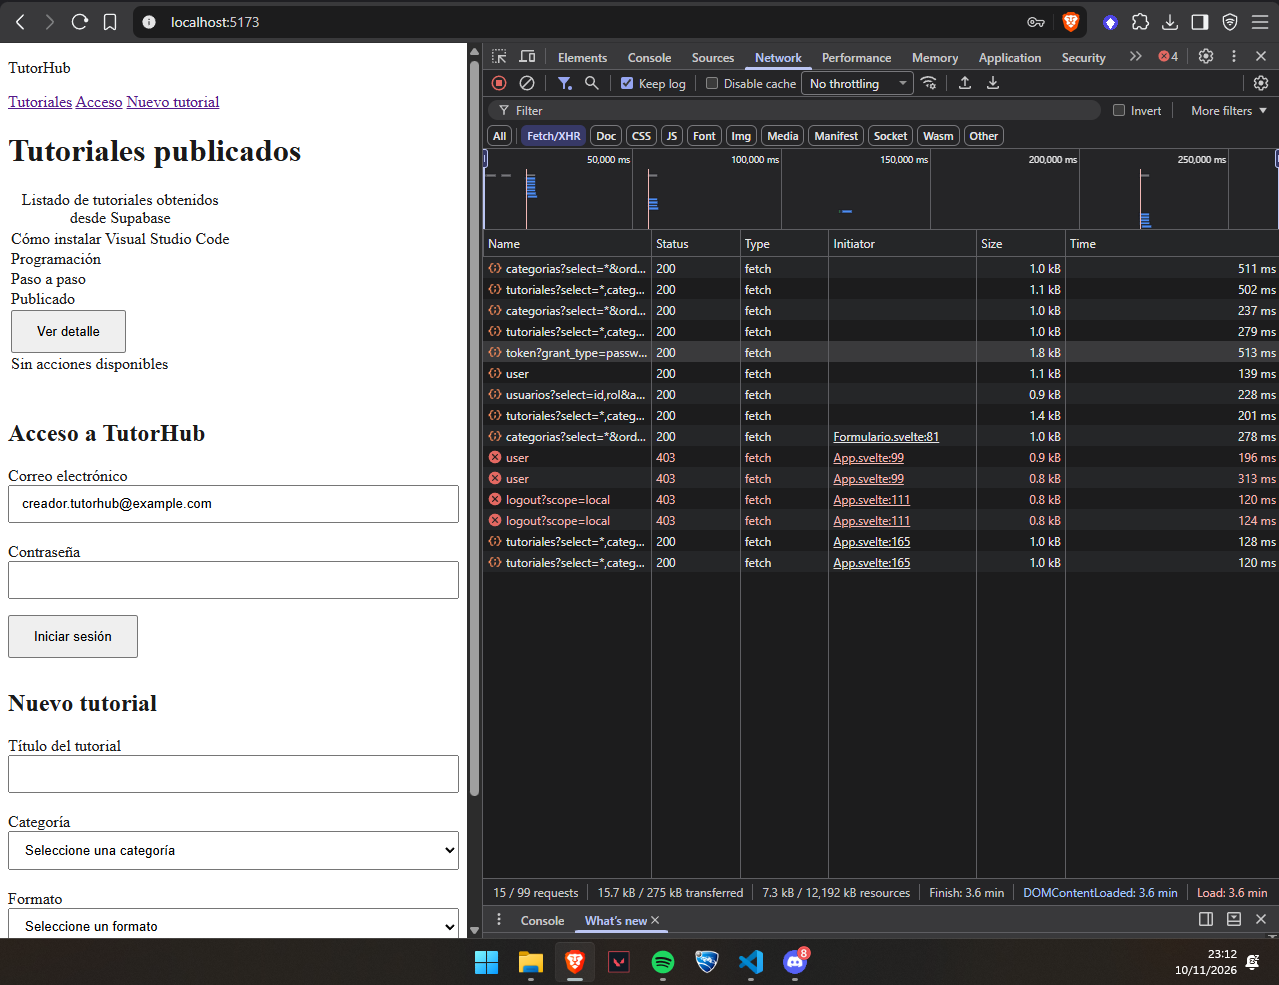
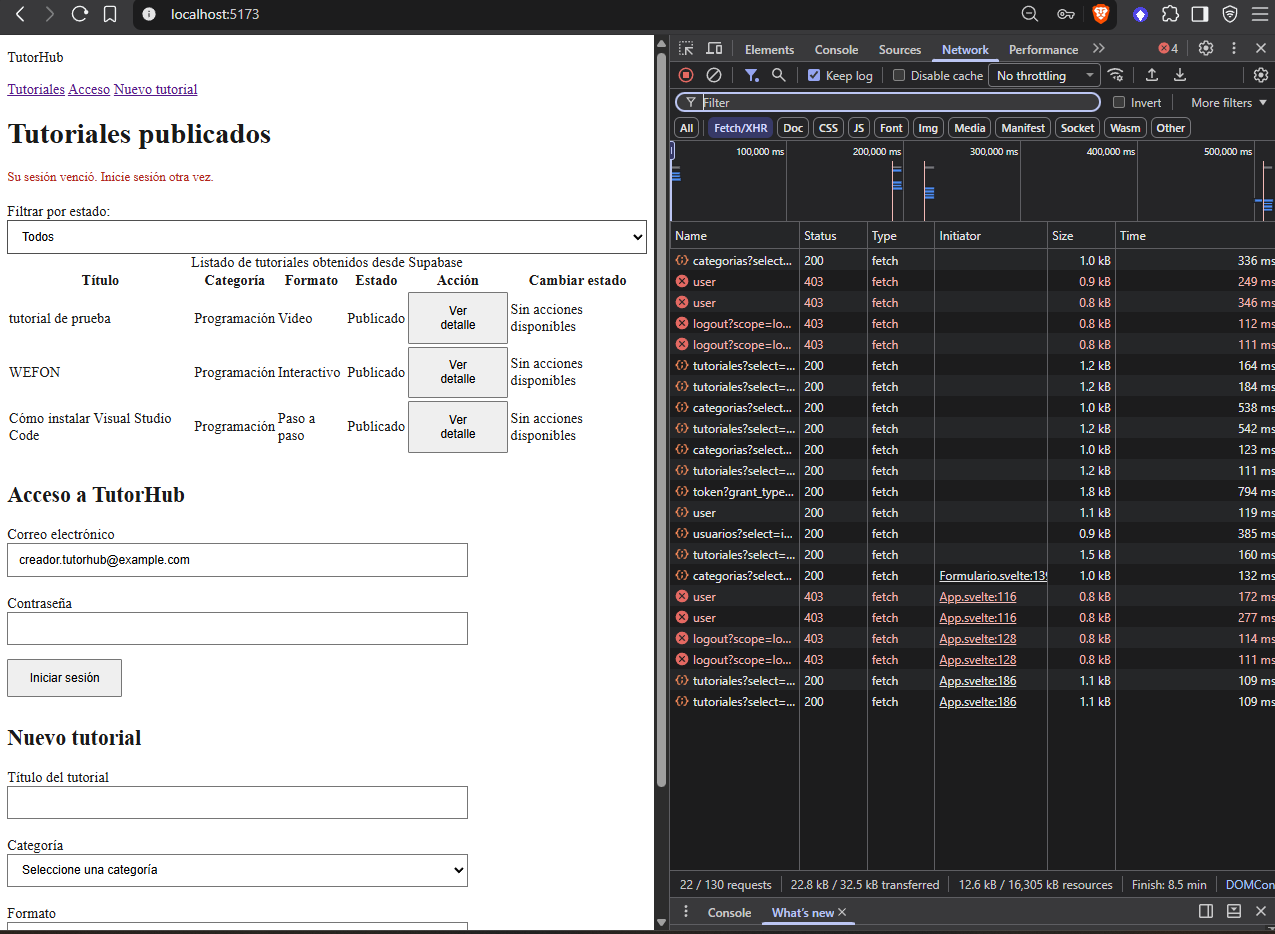
fix: mostrar aviso de sesion vencida y actualizar evidencias del caso 4
IA: Claude como apoyo en correccion de documentacion.

diff --git a/src/App.svelte b/src/App.svelte
@@ -71,6 +71,9 @@
   let error = $state("");
   let errorPerfil = $state("");
 
+  // Aviso cuando el token guardado ya no es válido.
+  let avisoSesion = $state("");
+
   // Estado para las modificaciones de tutoriales.
   let cambiandoId = $state<number | null>(null);
   let mensajeCambio = $state("");
@@ -127,6 +130,10 @@
           session = null;
           tutorialSeleccionado = null;
           tutoriales = [];
+
+          // Avisar y continuar con el listado público.
+          avisoSesion =
+            "Su sesión venció. Inicie sesión otra vez.";
         }
       }
 
@@ -217,6 +224,11 @@
           evento !== "SIGNED_OUT"
         ) {
           return;
+        }
+
+        // Al iniciar sesión otra vez, quitar el aviso.
+        if (evento === "SIGNED_IN") {
+          avisoSesion = "";
         }
 
         const nuevoUsuarioId =
@@ -480,6 +492,13 @@
       ? "Tutoriales visibles para mí"
       : "Tutoriales publicados"}
   </h1>
+
+  <!-- Aviso de sesión vencida -->
+  {#if avisoSesion}
+    <p role="alert" class="mensaje-error">
+      {avisoSesion}
+    </p>
+  {/if}
 
   <!-- Mensaje de error al consultar el perfil -->
   {#if errorPerfil}

diff --git a/docs/taller10/peticiones.md b/docs/taller10/peticiones.md
@@ -30,7 +30,7 @@ También se comprueba que una respuesta HTTP exitosa no siempre significa que se
 | 1. Con sesión y con política | PATCH a `tutoriales`, ID 3 | 200 | Una fila actualizada con estado `en_revision` | TutorHub confirmó el cambio de WEFON a En revisión. |
 | 2. Sin sesión | PATCH a `tutoriales`, ID 4 | 401 | Error `42501`: `permission denied for table tutoriales` | La aplicación permaneció como visitante, sin botones para modificar estados. |
 | 3. Con sesión y sin política | PATCH a `tutoriales`, ID 8 | 200 | `[]` | TutorHub indicó que no se modificó el tutorial y actualizó el listado. |
-| 4. Token alterado y página recargada | GET a `/auth/v1/user` | 403 | Error de autenticación por token inválido; no se registró el cuerpo JSON completo | La aplicación eliminó la sesión inválida y recuperó el listado público. |
+| 4. Token alterado y página recargada | GET a `/auth/v1/user` | 403 | Error de autenticación por token inválido | Mostró «Su sesión venció. Inicie sesión otra vez.», eliminó la sesión local y recuperó el listado público. |
 | 5. Copia vieja del Revisor A | PATCH a `tutoriales`, ID 6 | 200 | `[]` | Mostró una advertencia, actualizó el listado y mantuvo el tutorial en Publicado. |
 
 **Nota sobre el caso 3:** La captura muestra la respuesta `[]` y el mensaje de actualización fallida. El código 200 es consistente con la rama de ejecución de `src/App.svelte`, aunque la columna Status no aparece visible en esa captura.
@@ -328,11 +328,11 @@ Cuando detecta una respuesta de autenticación que indica que el token es invál
 
 ### Comportamiento después de la corrección
 
-TutorHub regresó al modo visitante.
+TutorHub mostró el mensaje de advertencia en rojo:
 
-La aplicación volvió a mostrar el encabezado de Tutoriales publicados y permitió acceder al contenido público.
+> Su sesión venció. Inicie sesión otra vez.
 
-El formulario de inicio de sesión quedó nuevamente disponible.
+La aplicación eliminó la sesión local inválida y regresó al modo visitante. El listado cargó correctamente los tutoriales publicados mediante peticiones con código HTTP 200, y el formulario de inicio de sesión quedó nuevamente disponible para ingresar credenciales válidas.
 
 ### Verificación adicional
 

diff --git a/docs/decisiones.md b/docs/decisiones.md
@@ -82,7 +82,7 @@ Se ajusta mejor al comportamiento esperado: conservar temporalmente lo escrito d
 
 ### Evidencias
 
-- `docs/taller10/capturas/fase4_borrador_recuperado.jpg`
+- `docs/taller10/capturas/fase4_borrador_recuperado.png`
 - `docs/taller10/capturas/fase4_borrador_error.png`
 - `docs/taller10/capturas/fase4_borrador_eliminado.png`
 
